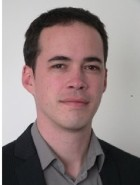
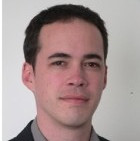
optim images

diff --git a/scripts/data/events.js b/scripts/data/events.js
@@ -26,10 +26,10 @@ var njEvents = [
         length: '1 h 30',
         type: 'talk',
         intro: null,
-        abstract: "<p>Il faut que vous le sachiez, Gradle ne fait pas que remplacer Maven. Il répond à d\'autres problématiques : conventions d\'entreprise, intégration continue, DevOps, parallélisme, gestion avancée des dépendances, " +
-          "variantes de build déclarative, compilation incrémentale, projets polyglottes, artéfacts multiples...</p>"+
-            "<p>Dans cette session, vous apprendrez pourquoi on ne peut pas réduire Gradle à un Maven sans XML ou un Ant sous stéroïdes. Vous verrez qu\'écrire une build sera plus jamais une punition. Pire, ça pourrait devenir un plaisir !",
-        speakers: ['cedric_champeau' ],
+        abstract: '<p>Il faut que vous le sachiez, Gradle ne fait pas que remplacer Maven. Il répond à d\'autres problématiques : conventions d\'entreprise, intégration continue, DevOps, parallélisme, gestion avancée des dépendances, ' +
+          'variantes de build déclarative, compilation incrémentale, projets polyglottes, artéfacts multiples...</p>' +
+            '<p>Dans cette session, vous apprendrez pourquoi on ne peut pas réduire Gradle à un Maven sans XML ou un Ant sous stéroïdes. Vous verrez qu\'écrire une build sera plus jamais une punition. Pire, ça pourrait devenir un plaisir !',
+        speakers: ['cedric_champeau'],
         docs: [{
 //          name: '',
 //          url: '',
@@ -52,10 +52,10 @@ var njEvents = [
         type: 'talk',
         intro: null,
         speakers: ['tyler_jewell', 'stevan_lemeur'],
-        abstract: "<p>The Java community is filled with terrific solutions for enabling development of apps. Every Java developer has their choice of tools and the openness of the platform makes it accessible to anyone and extensible by everyone.</p> "+
-          "<p>But why then, is 99% of all development still done locally? While sales, marketing, customer service, support, finance, and infrastructure has steadily moved to the cloud over the past decade, Java development remains rooted on the desktop. Will it always be this way? </p> "+
-          "<p>In this session, we will discuss the evolution of remote development of Java applications and the emergence of SaaS Developer Environments. Often times called a cloud IDE, a SaaS environment can eliminate configuration, increase collaboration, and alleviate management concerns around consistency, compliance, and velocity. In essence, SaaS developer environments can make agile, more agile.</p> "+
-          "<p>We will present a beta of the Codenvy Cloud, a sister system to codenvy.com that has been in development since 2011.</p> " ,
+        abstract: '<p>The Java community is filled with terrific solutions for enabling development of apps. Every Java developer has their choice of tools and the openness of the platform makes it accessible to anyone and extensible by everyone.</p>' +
+          '<p>But why then, is 99% of all development still done locally? While sales, marketing, customer service, support, finance, and infrastructure has steadily moved to the cloud over the past decade, Java development remains rooted on the desktop. Will it always be this way? </p>' +
+          '<p>In this session, we will discuss the evolution of remote development of Java applications and the emergence of SaaS Developer Environments. Often times called a cloud IDE, a SaaS environment can eliminate configuration, increase collaboration, and alleviate management concerns around consistency, compliance, and velocity. In essence, SaaS developer environments can make agile, more agile.</p>' +
+          '<p>We will present a beta of the Codenvy Cloud, a sister system to codenvy.com that has been in development since 2011.</p>' ,
         docs: [{
           // name: 'Les sources du projet Angular Dart',
           // url: 'https://github.com/PierreReliquet/angulardart_nantesjug',
@@ -67,12 +67,12 @@ var njEvents = [
         length: '1 h 00',
         type: 'talk',
         intro: null,
-        abstract: "<p>Présentation du principe de « Development Accelerator » avec un générateur de code simple et pragmatique.</p>"+
-			   	  "<p>Démos :  génération de deux types d’applications immédiatement utilisables :"+
-				  "<ul>"+
-				  "  <li>services RESTful avec Spring Data Rest / HATEOAS</li>"+
-				  "  <li>application AngularJS, REST/SpringMVC/JPA ou Spring Data</li>"+
-				  "<ul></p>",		
+        abstract: '<p>Présentation du principe de « Development Accelerator » avec un générateur de code simple et pragmatique.</p>'+
+            '<p>Démos :  génération de deux types d’applications immédiatement utilisables :'+
+          '<ul>'+
+          '  <li>services RESTful avec Spring Data Rest / HATEOAS</li>'+
+          '  <li>application AngularJS, REST/SpringMVC/JPA ou Spring Data</li>'+
+          '<ul></p>',   
         speakers: ['laurent_guerin', 'benoit_wilcox', 'ludovic_chaboud' ],
         docs: [{
 //          name: '',

diff --git a/scripts/data/speakers.js b/scripts/data/speakers.js
@@ -65,7 +65,7 @@ var njSpeakers = [
     name: 'Antony Guilloteau',
     bio: null,
     gravatar: null,
-    photo: 'png',
+    photo: 'jpg',
     twitter: null,
     gplus: null,
     github: null,
@@ -307,7 +307,7 @@ var njSpeakers = [
     name: 'Jean-Baptiste Defard',
     bio: 'Jean-Baptiste Defard a fété en 2007 ses 20 ans de développement en informatique. Il s\'est spécialisé dans la mise en oeuvre d\'architectures objet. Tombé dans la marmite du C++ tout petit, il travaille aujourd\'hui essentiellement en Java dans le domaine des applications d\'entreprise. Il a rejoint Netapsys en 2007 et en a intégré sa direction technique.',
     gravatar: null,
-    photo: 'png',
+    photo: 'jpg',
     twitter: null,
     gplus: null,
     github: null,
@@ -581,7 +581,7 @@ var njSpeakers = [
     name: 'Tyler Jewell',
     bio: '<p>Tyler Jewell is CEO of Codenvy, the cloud development environment, and a venture partner with Toba Capital where he focuses on investments on businesses related to middleware and application development. Tyler sits on the board of WSO2 and has made investments in ZeroTurnaround, InfoQ and AppHarbor.</p>',
     gravatar: null,
-    photo: 'jpeg',
+    photo: 'jpg',
     twitter: 'TylerJewell',
     gplus:   null,
     github: 'TylerJewell',
@@ -593,7 +593,7 @@ var njSpeakers = [
     name: 'Stévan Le Meur',
     bio: '<p>Stévan Le Meur is a Product Manager at Codenvy. With a background as a developer, he is driven by the belief that great applications should be built in exceptional development environments. He brings this passion to his work on the Codenvy IDE, where his attention to detail is put to good use in creating great developer experiences.</p>',
     gravatar: null,
-    photo: 'jpeg',
+    photo: 'jpg',
     twitter: 'stevanLM',
     gplus:   null,
     github: null,
@@ -616,7 +616,7 @@ var njSpeakers = [
 		 "<li>Certified Scrum Master</li>"+
 		 "</ul>",
     gravatar: null,
-    photo: 'png',
+    photo: 'jpg',
     twitter: 'ltguerin',
     gplus:   null,
     github: 'l-gu',

diff --git a/scripts/controllers/main.js b/scripts/controllers/main.js
@@ -19,7 +19,7 @@ angular.module('nantesjugApp')
       $scope.urlMatch = urlMatch;
 
       $scope.showLayout = function() {
-        return !urlMatch('/events/.*/slide');
+        return !urlMatch('/events/.*/slide') && !urlMatch('/events/.*/mail');
       };
 
       $scope.showSponsors = function() {
